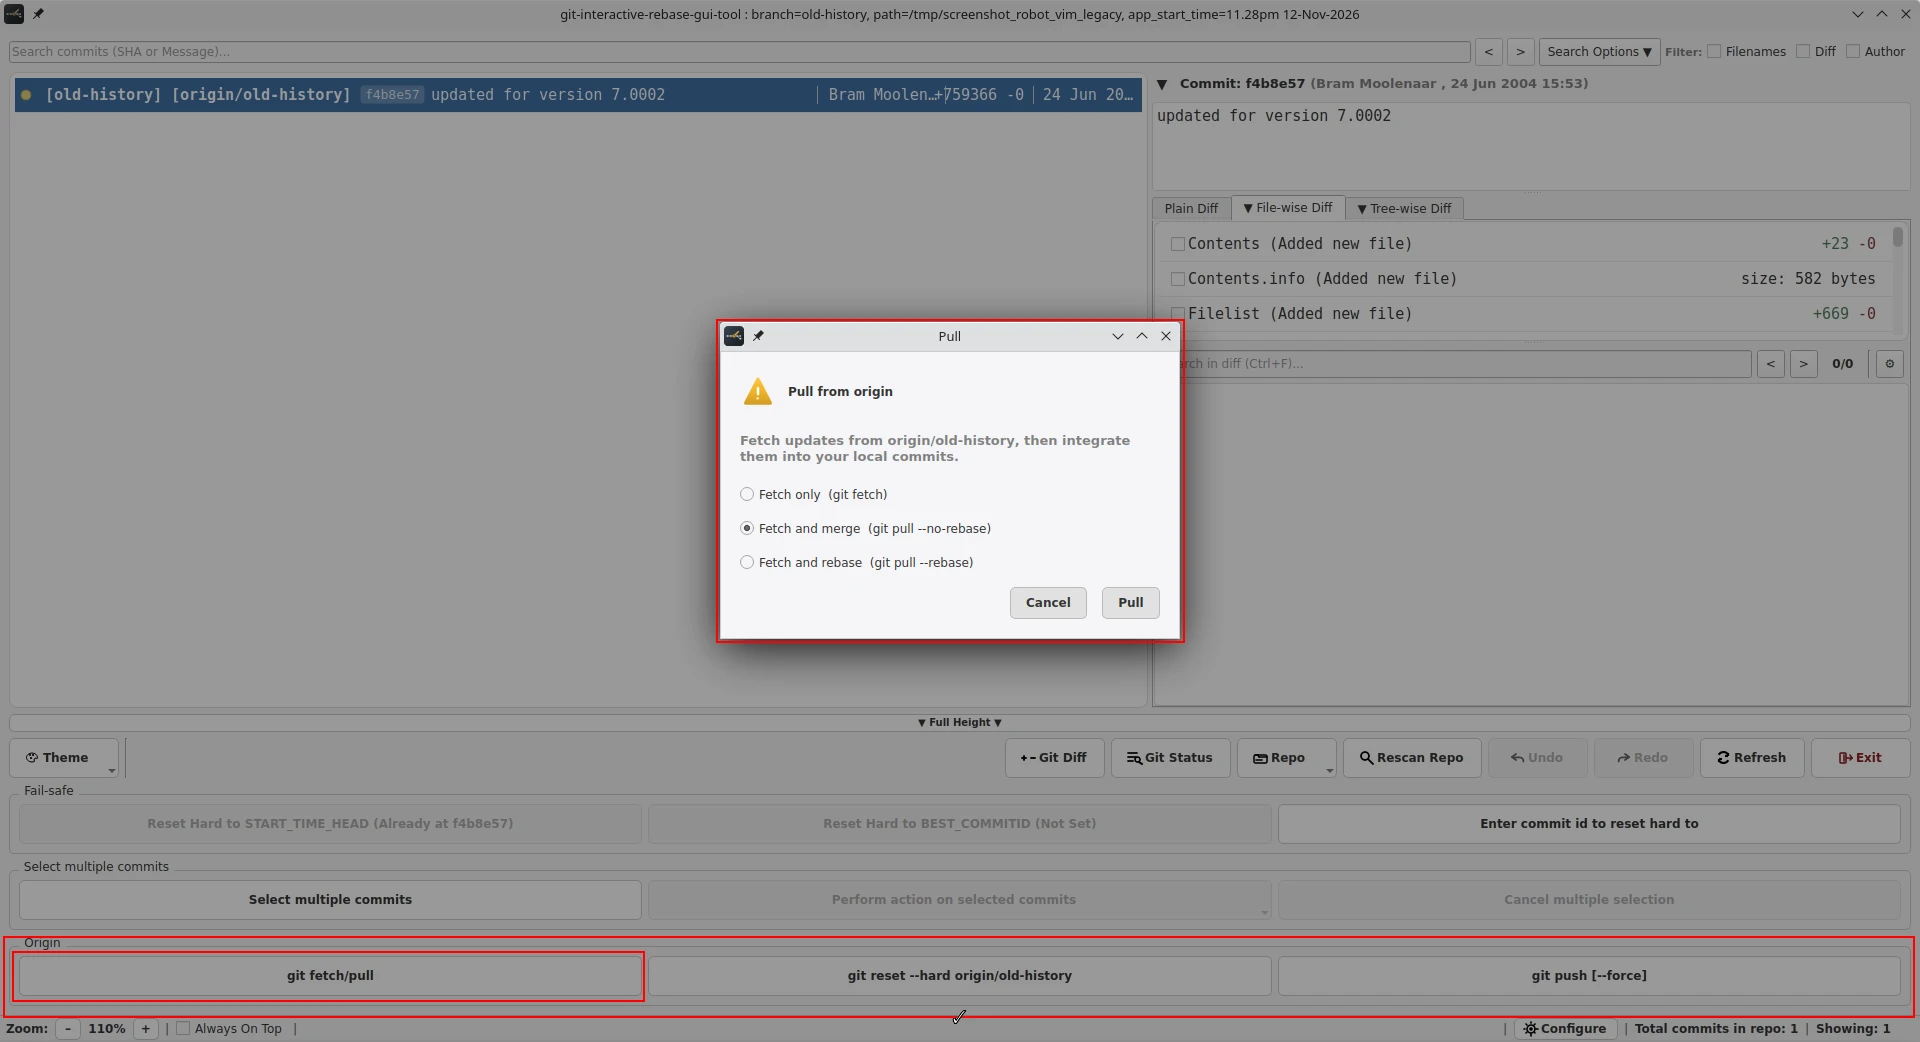
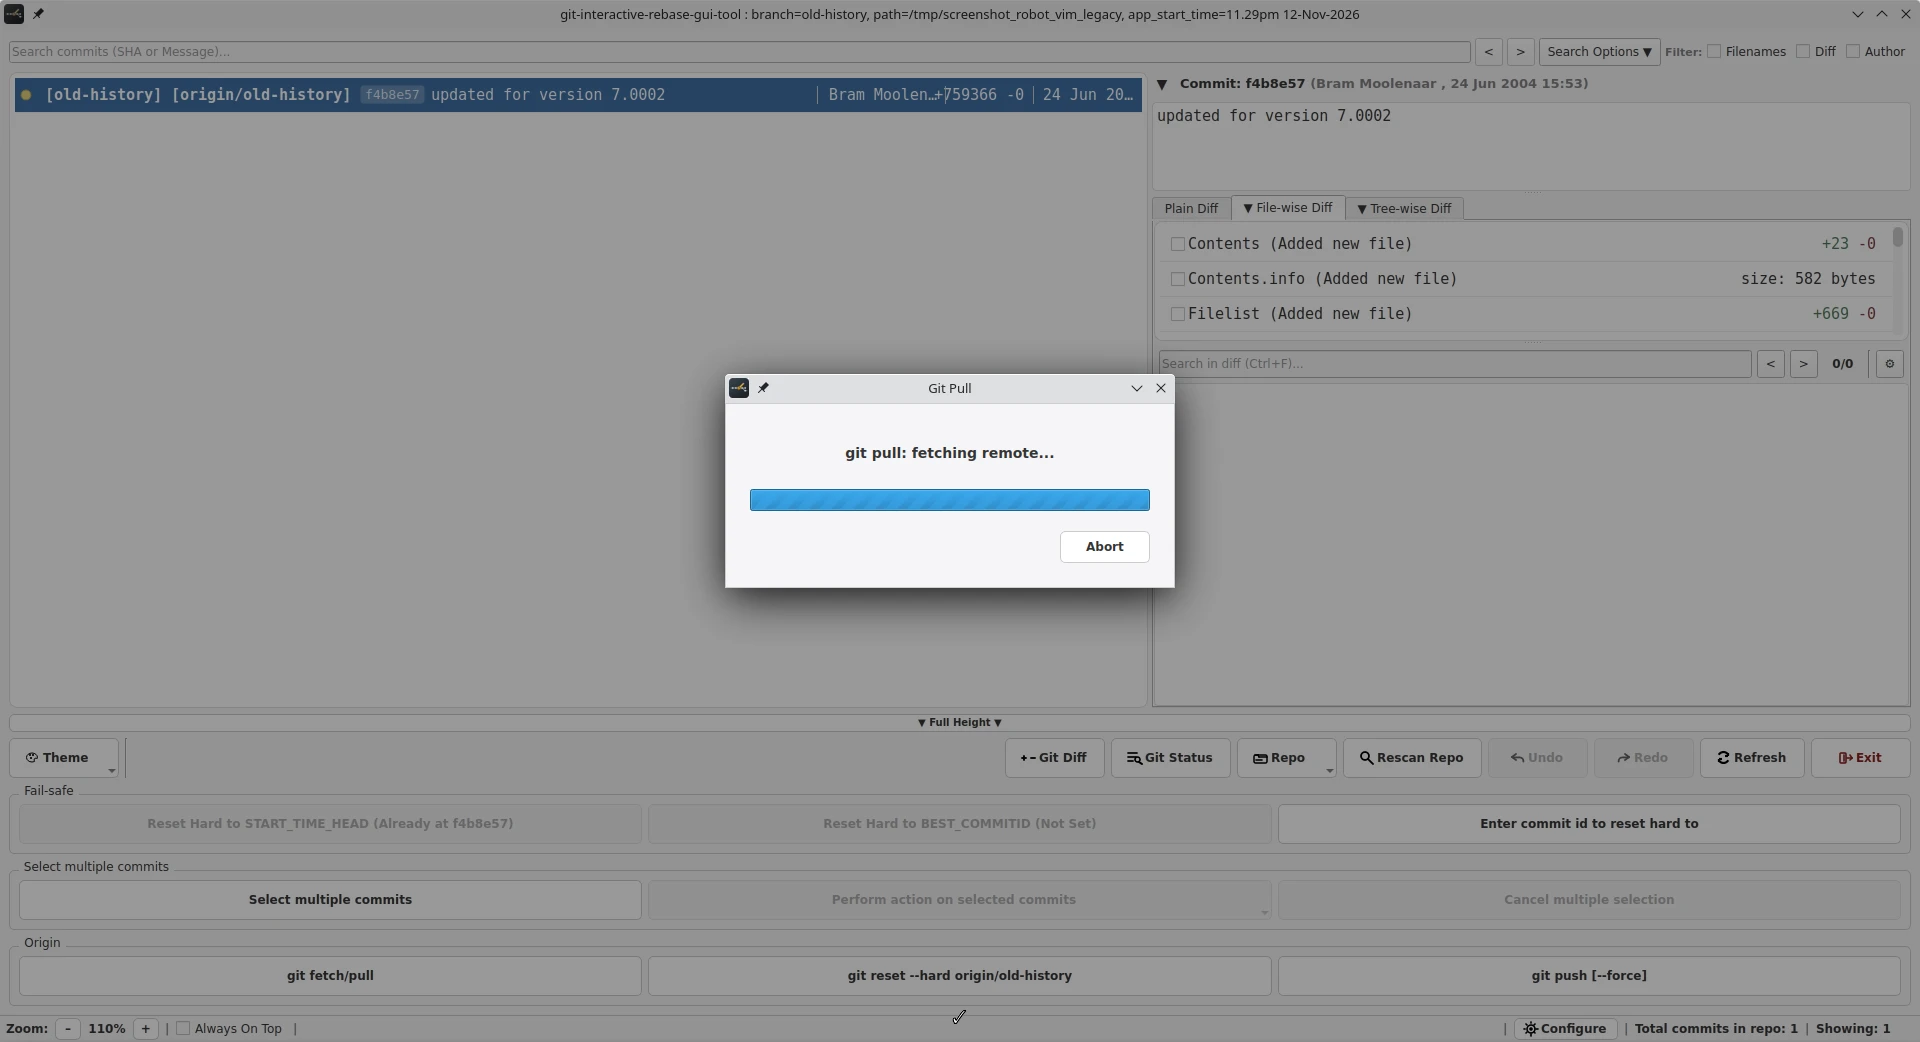
capture: fetch-progress.webp, fetch-progress.webp

Changed region(s): [[0.3438, 0.2764, 0.625, 0.6449], [0.0, 0.8906, 1.0, 0.9827]]

diff --git a/scenes/fetch-progress.py b/scenes/fetch-progress.py
@@ -129,6 +129,8 @@ def main():
 
         tool.sleep(.5)
         tool.sleep(.5)
+        tool.sleep(.5)
+        tool.sleep(.5)
 
 
         # menu open, window still maximized
